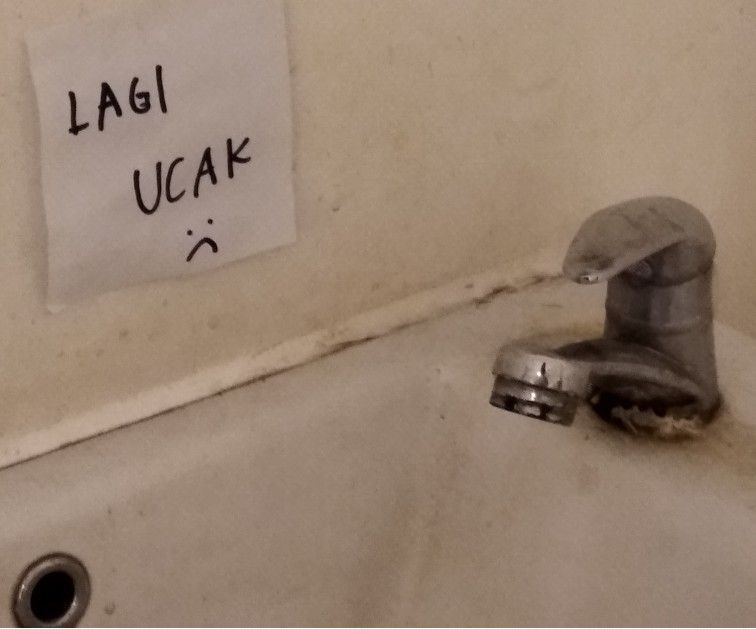
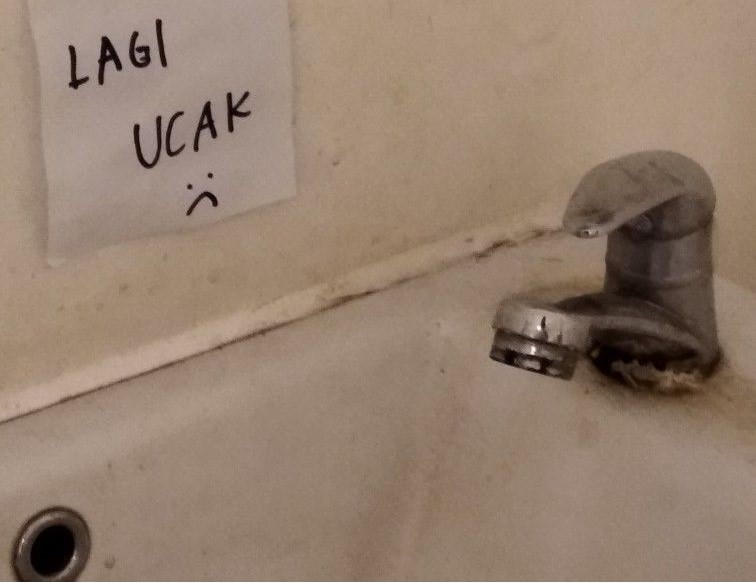
Final-Revision

diff --git a/report.html b/report.html
@@ -76,12 +76,12 @@
                         <h1 class="fw-bold mb-2">Laporan Fasilitas: Keran Masjid Rusak</h1>
                         <p class="text-secondary">By:<span class="text-primary fw-semibold">Vinicius Junior</span> | 3 Hours Ago</p>
                     <div style="height: 400px; overflow: hidden">
-                        <img class="img-fluid rounded-3 shadow-sm" src="assets/images/messi.jpg" alt="">
+                        <img class="img-fluid rounded-3 shadow-sm" src="assets/images/keran-rusak.jpg" alt="">
                     </div>
             
-                    <p class="lh-lg mt-4">Lorem ipsum dolor, sit amet consectetur adipisicing elit. Maiores facere amet, voluptate error debitis iure earum odio numquam architecto sed sint libero alias! Optio accusamus at iure autem sint quidem?</p>
-                    <blockquote class="text-secondary border-start border-primary-subtle border-3 p-3 fst-italic">Lorem ipsum, dolor sit amet consectetur adipisicing elit. Voluptatum, fugit hic. Libero obcaecati inventore eius.</blockquote>
-                    <p class="lh-lg">Lorem ipsum dolor sit amet consectetur adipisicing elit. Esse, aliquid quos voluptatum sint explicabo ducimus numquam et delectus at provident.
+                    <p class="lh-lg mt-4">"Beberapa keran di area masjid atau kamar mandi rusak, dikhawatirkan akan mengganggu kegiatan ibadah dan bersih-bersih santri maupun guru"</p>
+                    <blockquote class="text-secondary border-start border-primary-subtle border-3 p-3 fst-italic">Saat ini ada dua keran di area wudhu masjid yang tidak bisa digunakan. Salah satunya tidak mengeluarkan air sama sekali, sedangkan yang satunya lagi bocor di bagian bawah sehingga air terus menetes. Kondisi ini sudah berlangsung sekitar tiga hari terakhir, dan membuat antrean wudhu menjadi lebih panjang, terutama saat waktu sholat tiba.</blockquote>
+                    <p class="lh-lg">Mohon agar bagian fasilitas dapat melakukan pengecekan dan perbaikan secepatnya, karena area tersebut cukup sering digunakan setiap hari. Jika memungkinkan, mungkin bisa diganti dengan keran baru agar tidak mengalami kebocoran lagi ke depannya.
                     </p>
 
                     <hr>
